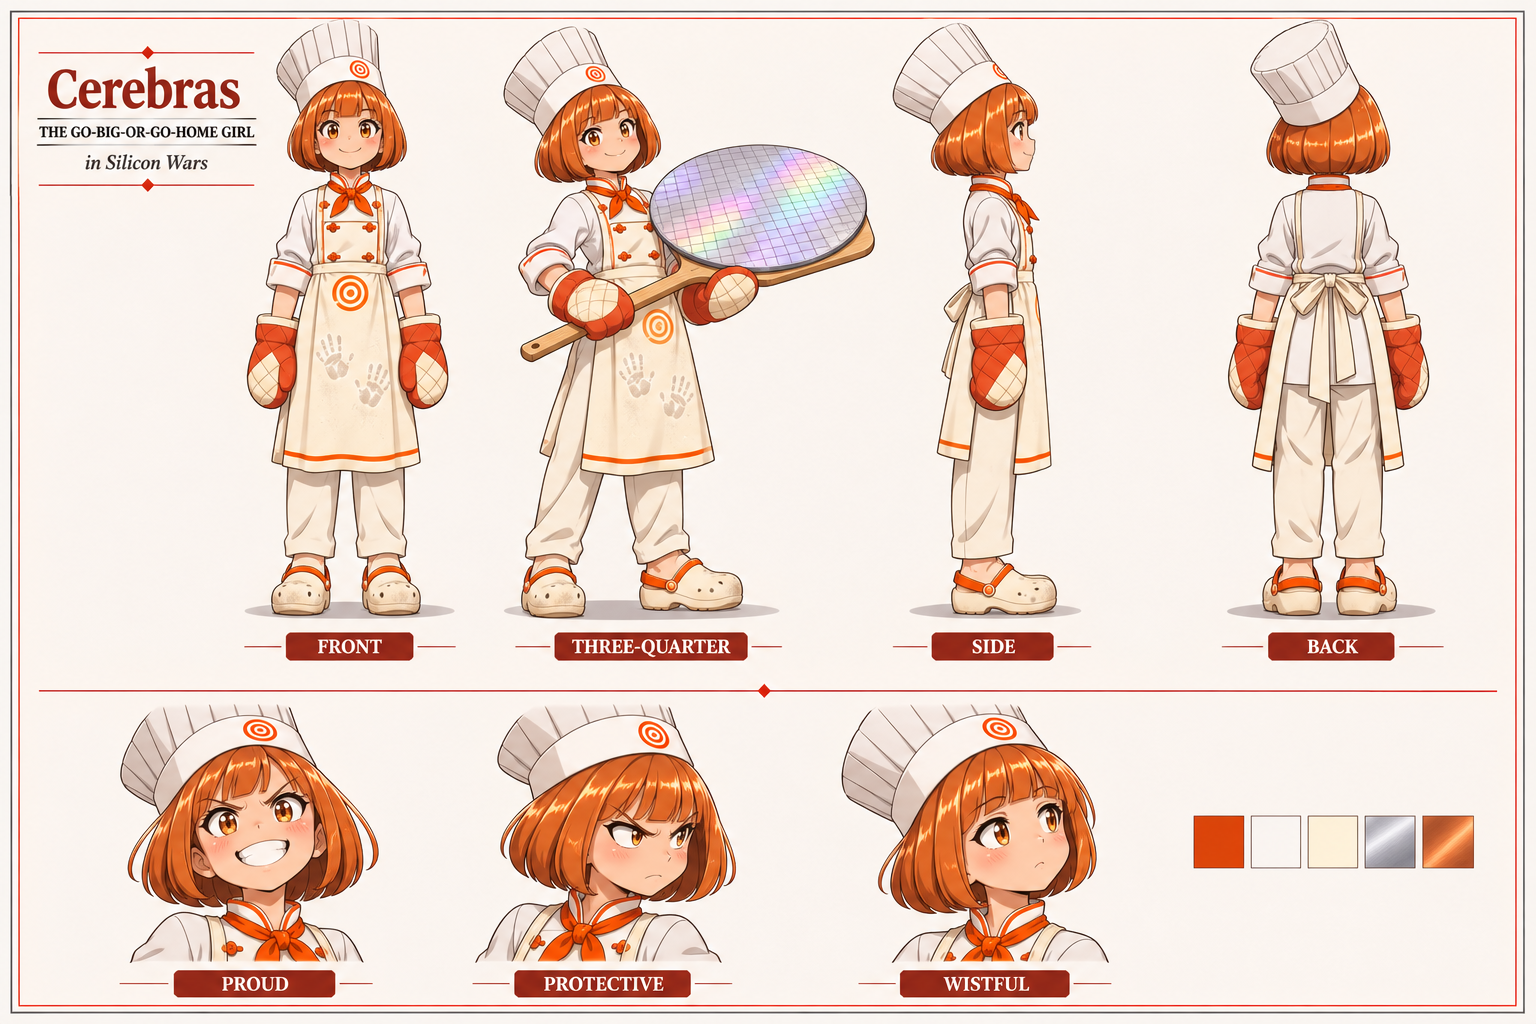
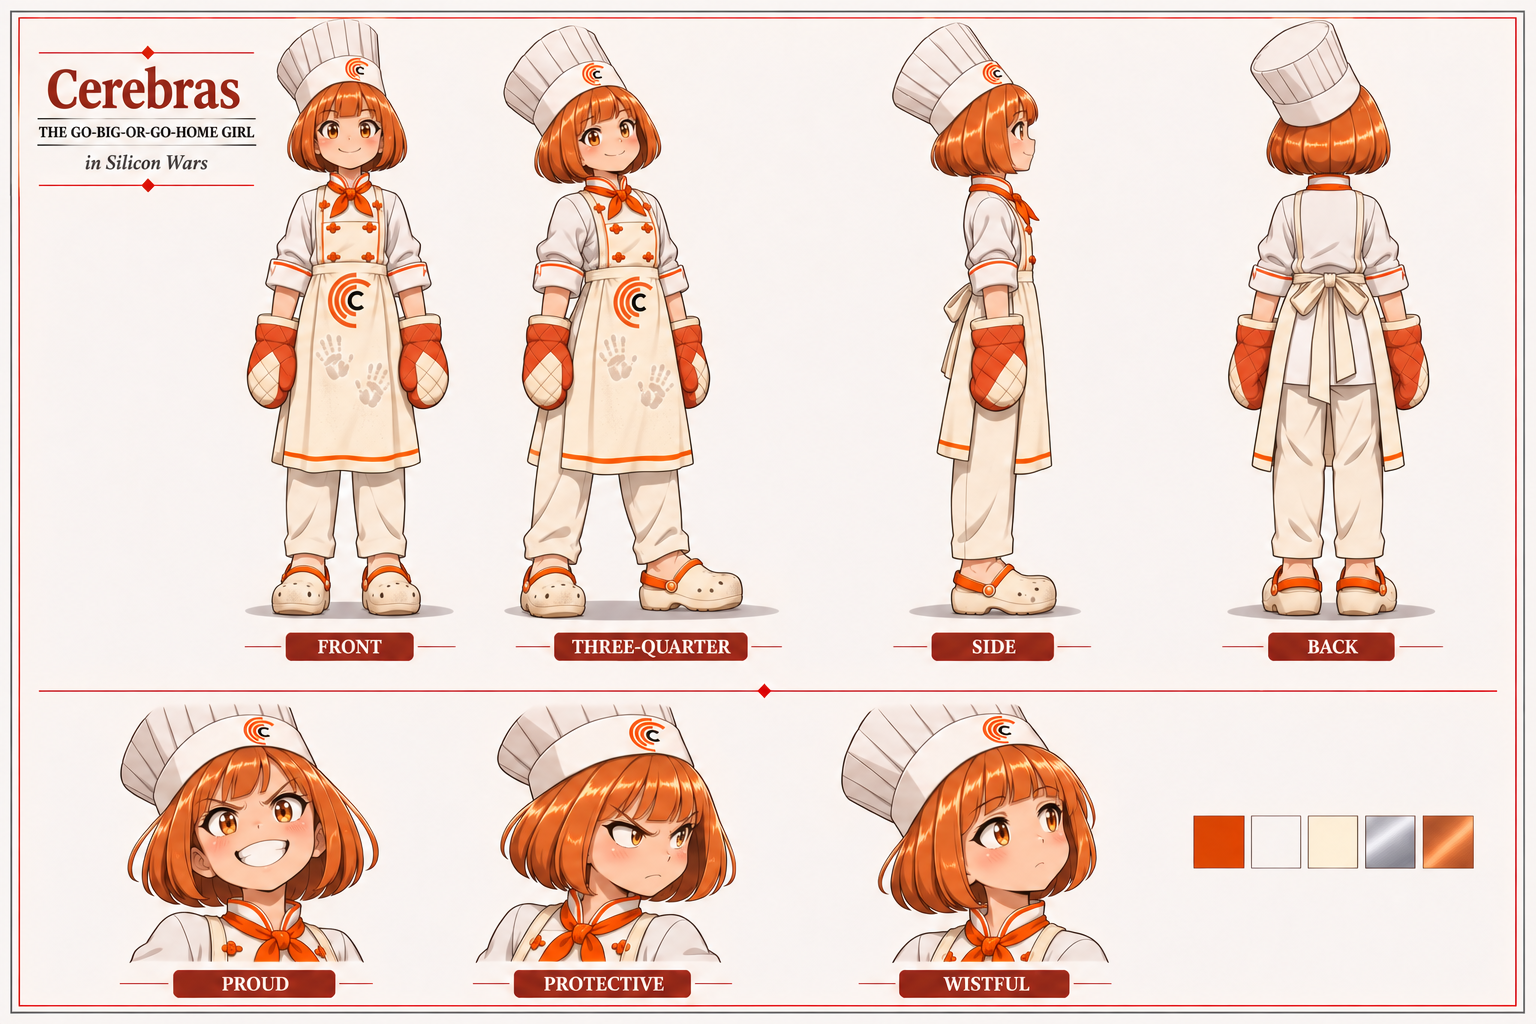
Correct Cerebras badges and clear the turnaround props

diff --git a/characters/cerebras/character_sheet.prompt.md b/characters/cerebras/character_sheet.prompt.md
@@ -4,7 +4,7 @@ The built-in image generator produced all three illustrations. The redesign brie
 
 ## Model sheet
 
-Input [model sheet layout](https://github.com/hevangel/silicon_wars_anime_girls/blob/09a3b366cffd637fd8b47cdc6df277a92e865aa3/characters/_template/layout/model_sheet_layout.png) for structure. Output [character_sheet.png](character_sheet.png).
+Input [model sheet layout](https://github.com/hevangel/silicon_wars_anime_girls/blob/09a3b366cffd637fd8b47cdc6df277a92e865aa3/characters/_template/layout/model_sheet_layout.png) for structure. Output [first-pass character_sheet.png](https://github.com/hevangel/silicon_wars_anime_girls/blob/b4be7c8f57fb177ab497567f0fa5520eb69a6bae/characters/cerebras/character_sheet.png).
 
 Draw a 1536 × 1024 landscape production model sheet for "Cerebras" / "THE GO-BIG-OR-GO-HOME GIRL" in Silicon Wars. Image 1 is the blank repository turnaround layout only. Use the written redesign as the character source.
 
@@ -14,7 +14,7 @@ Exactly four equal-height standing full-body views on a shared baseline, with al
 
 ## Expression sheet
 
-Inputs [model sheet](character_sheet.png) for identity and [expression layout](https://github.com/hevangel/silicon_wars_anime_girls/blob/09a3b366cffd637fd8b47cdc6df277a92e865aa3/characters/_template/layout/expressions_layout.png) for the twelve-cell grid. Output [expressions.png](expressions.png).
+Inputs [model sheet](character_sheet.png) for identity and [expression layout](https://github.com/hevangel/silicon_wars_anime_girls/blob/09a3b366cffd637fd8b47cdc6df277a92e865aa3/characters/_template/layout/expressions_layout.png) for the twelve-cell grid. Output [first-pass expressions.png](https://github.com/hevangel/silicon_wars_anime_girls/blob/b4be7c8f57fb177ab497567f0fa5520eb69a6bae/characters/cerebras/expressions.png).
 
 Create a 1536 × 1024 landscape anime production expression sheet for "Cerebras" / "THE GO-BIG-OR-GO-HOME GIRL". Image 1 is the strict model sheet for her middle-school age, face, bob, toque, uniform, boots, mitts and wafer. Image 2 is the repo blank expression layout for composition only.
 
@@ -31,7 +31,7 @@ Neutral is expectant, smiling is a big proud grin, eyes closed is a pleased smil
 
 ## Reference card
 
-Inputs [model sheet](character_sheet.png) for identity and [reference card layout](https://github.com/hevangel/silicon_wars_anime_girls/blob/09a3b366cffd637fd8b47cdc6df277a92e865aa3/characters/_template/layout/reference_card_layout.png) for framing. Output [reference_card.jpg](reference_card.jpg).
+Inputs [model sheet](character_sheet.png) for identity and [reference card layout](https://github.com/hevangel/silicon_wars_anime_girls/blob/09a3b366cffd637fd8b47cdc6df277a92e865aa3/characters/_template/layout/reference_card_layout.png) for framing. Output [first-pass reference_card.jpg](https://github.com/hevangel/silicon_wars_anime_girls/blob/b4be7c8f57fb177ab497567f0fa5520eb69a6bae/characters/cerebras/reference_card.jpg).
 
 Create a polished 1024 × 1536 portrait anime reference card for Cerebras, "THE GO-BIG-OR-GO-HOME GIRL", from Silicon Wars. Image 1 is the approved new model sheet and strict costume, character and age reference. Image 2 is the blank portrait layout for framing and nameplate only.
 
@@ -46,3 +46,29 @@ Background: warm glowing brick pizza oven and clean-room window with wafer racks
 Inside the bottom plate, center exactly two lines as a vertically balanced group with equal top and bottom padding: "Cerebras" and "THE GO-BIG-OR-GO-HOME GIRL". Leave out the tagline and all extra nameplate copy. Only the specified scene labels and title. No duplicate name at the top, extra logo banner, advertising copy, or watermark.
 
 The [previous Cerebras card](https://github.com/hevangel/silicon_wars_anime_girls/blob/09a3b366cffd637fd8b47cdc6df277a92e865aa3/characters/cerebras/reference_card.jpg) is archived in Git.
+
+## Cerebras emblem and prop-free turnaround
+
+### Model sheet
+
+Inputs [previous character_sheet.png](https://github.com/hevangel/silicon_wars_anime_girls/blob/b4be7c8f57fb177ab497567f0fa5520eb69a6bae/characters/cerebras/character_sheet.png) and the standalone Cerebras C logo from the [official press kit](https://www.cerebras.ai/company/press-kit). Output [character_sheet.png](character_sheet.png).
+
+Image 1 is the finished Cerebras illustration to edit. Image 2 is the exact standalone Cerebras brand icon from the official press kit. Replace every existing orange bullseye or spiral on the character's white chef's hat band and cream apron with that standalone icon, fitted to the orientation, scale and perspective of the fabric. Match Image 2 precisely: four distinct thick nested orange arcs with unequal endpoints and a generous opening on the right, with the smallest black C at their center also opening to the right. The arcs never join or close. No orange dot, closed circles, target, coiled spiral, added letters or full wordmark on the clothing. Keep negative spaces clean and recognizable at small size. Do not add badges to views where the band or apron front is not visible.
+
+For the model sheet ONLY, also remove the entire wafer, wooden pizza peel and all hand-held props from the second standing figure labeled THREE-QUARTER. Restore her two empty mitted hands resting naturally at her sides, as in the FRONT and SIDE views, and draw the apron, jacket, orange scarf, and sleeve details that were hidden by the peel. Keep her same head, age, body angle, stance, outfit, foot positions and silhouette. Restore a clean off-white background where the props extended past her. She still wears her orange quilted oven mitts. The other views and the three lower face studies stay the same except the clothing logo changes. Preserve the exact four standing views, three expression studies, swatches, title, all labels, fine frame, landscape composition, and dimensions 1536 × 1024. Do not add any wafer, pizza peel, or new object anywhere on the model sheet.
+
+### Expression sheet
+
+Inputs [previous expressions.png](https://github.com/hevangel/silicon_wars_anime_girls/blob/b4be7c8f57fb177ab497567f0fa5520eb69a6bae/characters/cerebras/expressions.png) and the standalone Cerebras C logo from the [official press kit](https://www.cerebras.ai/company/press-kit). Output [expressions.png](expressions.png).
+
+Image 1 is the finished Cerebras illustration to edit. Image 2 is the exact standalone Cerebras brand icon from the official press kit. Replace every existing orange bullseye or spiral on the character's white chef's hat band and cream apron with that standalone icon, fitted to the orientation, scale and perspective of the fabric. Match Image 2 precisely: four distinct thick nested orange arcs with unequal endpoints and a generous opening on the right, with the smallest black C at their center also opening to the right. The arcs never join or close. No orange dot, closed circles, target, coiled spiral, added letters or full wordmark on the clothing. Keep negative spaces clean and recognizable at small size. Do not add badges to views where the band or apron front is not visible.
+
+Apply the logo correction to the left full-body figure's hat and apron and to each visible hat band in the twelve separate expression panels. Retain the full-body figure's intact wafer and wooden peel. Preserve the individual expressions, character design, every panel label and its order, scale, background, fine frame, and 1536 × 1024 layout. Change only the clothing logos.
+
+### Reference card
+
+Inputs [previous reference_card.jpg](https://github.com/hevangel/silicon_wars_anime_girls/blob/b4be7c8f57fb177ab497567f0fa5520eb69a6bae/characters/cerebras/reference_card.jpg) and the standalone Cerebras C logo from the [official press kit](https://www.cerebras.ai/company/press-kit). Output [reference_card.jpg](reference_card.jpg).
+
+Image 1 is the finished Cerebras illustration to edit. Image 2 is the exact standalone Cerebras brand icon from the official press kit. Replace every existing orange bullseye or spiral on the character's white chef's hat band and cream apron with that standalone icon, fitted to the orientation, scale and perspective of the fabric. Match Image 2 precisely: four distinct thick nested orange arcs with unequal endpoints and a generous opening on the right, with the smallest black C at their center also opening to the right. The arcs never join or close. No orange dot, closed circles, target, coiled spiral, added letters or full wordmark on the clothing. Keep negative spaces clean and recognizable at small size. Do not add badges to views where the band or apron front is not visible.
+
+In the card there are two logo placements to correct: the white chef hat band and the cream apron. Keep the large intact wafer and wooden peel, mittened hands, girl, lighting, pizzeria and clean room, all background figures, NO CUTTING! sign, and Wafer-Scale Engine board. Preserve the existing title-only two-line nameplate and its alignment. Change only those two clothing logos. Preserve the portrait composition and 1024 × 1536 format.

diff --git a/characters/cerebras/art_prompt.md b/characters/cerebras/art_prompt.md
@@ -3,8 +3,9 @@
 Use the [model sheet](character_sheet.png), [expression sheet](expressions.png), and [reference card](reference_card.jpg) for continuity.
 
 - Draw her as a middle-school girl about 12–13, slightly older in build and bearing than the elementary-school lab kids. Keep warm amber eyes, oven-flushed cheeks, a smooth round copper-orange bob at chin length, and neat straight bangs.
-- Keep her slightly tilted white chef's toque with orange swirl, white double-breasted chef's jacket with vermilion trim and knot buttons, small orange neckerchief, flour-marked cream apron, off-white work trousers, oversized quilted mitts, and scuffed kitchen clogs.
-- Keep the giant wafer round and intact, with a fine square die grid and iridescent silver finish. Carry it on a wooden pizza peel with both mitted hands. Use a proud grin and forward lean for her entrance, or a protective sidelong glare when someone reaches for a cutter.
+- Keep her slightly tilted white chef's toque with the Cerebras C emblem, white double-breasted chef's jacket with vermilion trim and knot buttons, small orange neckerchief, flour-marked cream apron, off-white work trousers, oversized quilted mitts, and scuffed kitchen clogs.
+- Use the [official Cerebras C emblem](https://www.cerebras.ai/company/press-kit) on the toque and apron. Its four orange arcs open to the right around a black C. Keep the turnaround prop-free, with her mitts resting at her sides.
+- In the card and expression sheet, keep the giant wafer round and intact, with a fine square die grid and iridescent silver finish. Carry it on a wooden pizza peel with both mitted hands. Use a proud grin and forward lean for her entrance, or a protective sidelong glare when someone reaches for a cutter.
 - Set the card in a pizzeria-fab with a glowing brick oven, a cool cleanroom window, a Wafer-Scale Engine board, cooling gear, and a clearly legible NO CUTTING! sign with a crossed-out pizza cutter. Keep the green-clad slicer a small, unmarked background rival. Leave animal companions and classroom props out.
 - Center Cerebras and The Go-Big-or-Go-Home Girl on two lines in the card's nameplate.
 

diff --git a/characters/cerebras/README.md b/characters/cerebras/README.md
@@ -11,7 +11,7 @@
 
 ## Look and presence
 
-Her glossy copper-orange bob is as round as a dinner plate. A slightly oversized white toque with an orange swirl tilts above her neat bangs. She wears a white double-breasted chef's jacket with vermilion trim, an orange neckerchief, a flour-marked cream apron, oversized quilted mitts, and scuffed kitchen clogs. Her amber eyes and oven-flushed cheeks give away how fast she wants to move.
+Her glossy copper-orange bob is as round as a dinner plate. A slightly oversized white toque with the orange-arc Cerebras C emblem tilts above her neat bangs. She wears a white double-breasted chef's jacket with vermilion trim, an orange neckerchief, a flour-marked cream apron, oversized quilted mitts, and scuffed kitchen clogs. Her amber eyes and oven-flushed cheeks give away how fast she wants to move.
 
 Her pizzeria doubles as a chip fab. She carries a giant silver silicon wafer on a wooden pizza peel, the square die grid catching the light in iridescent colors. An intact wafer is the one thing she handles without rushing.
 
